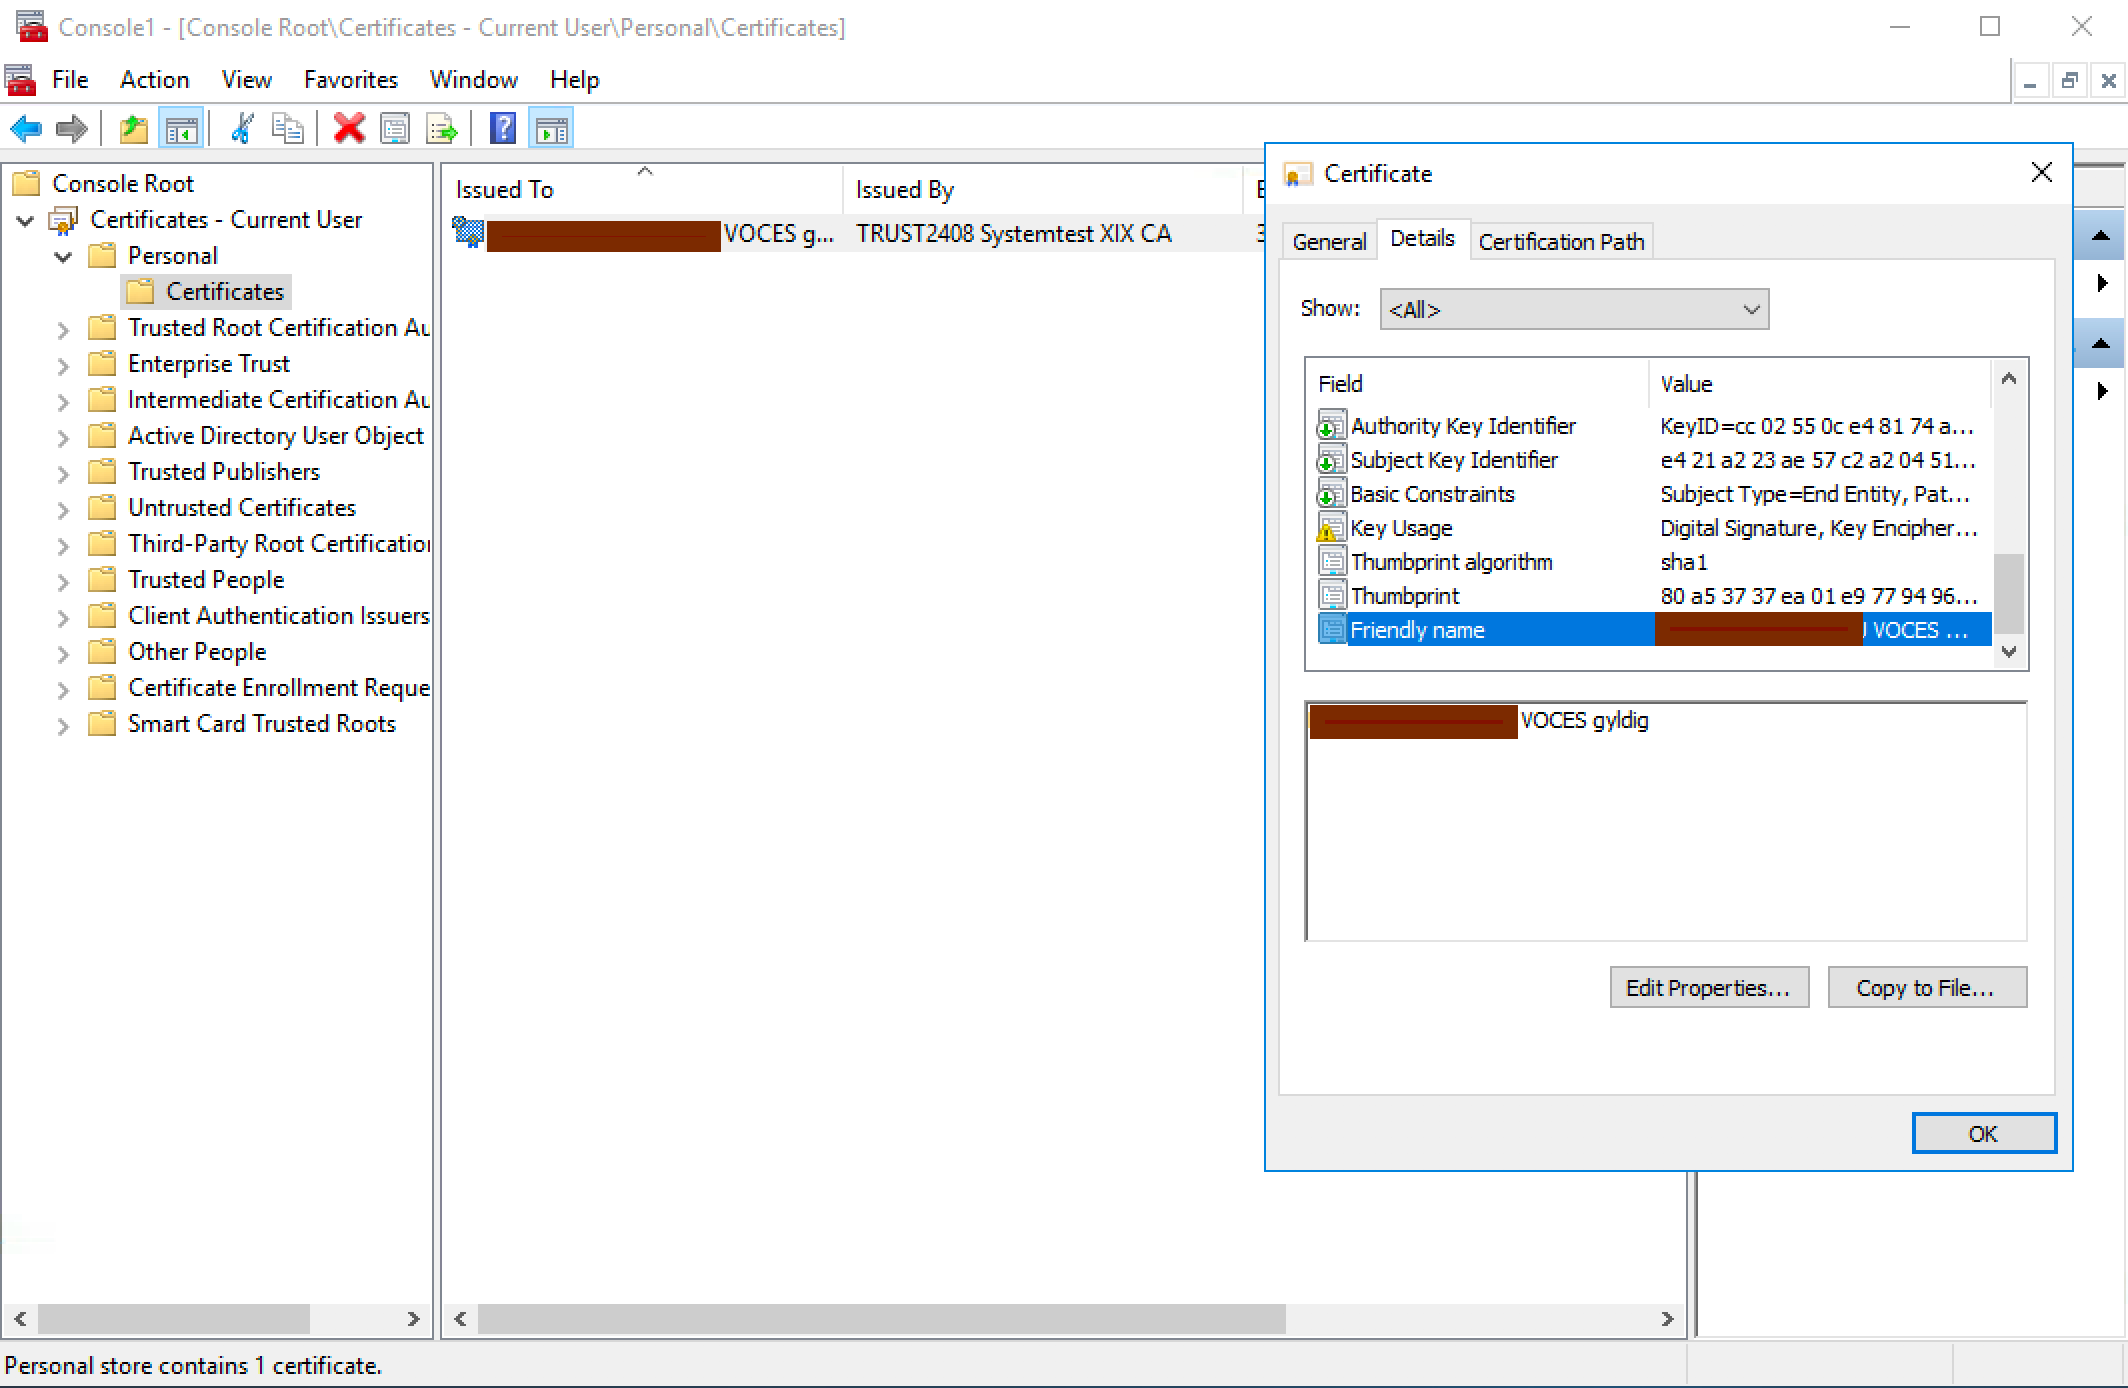
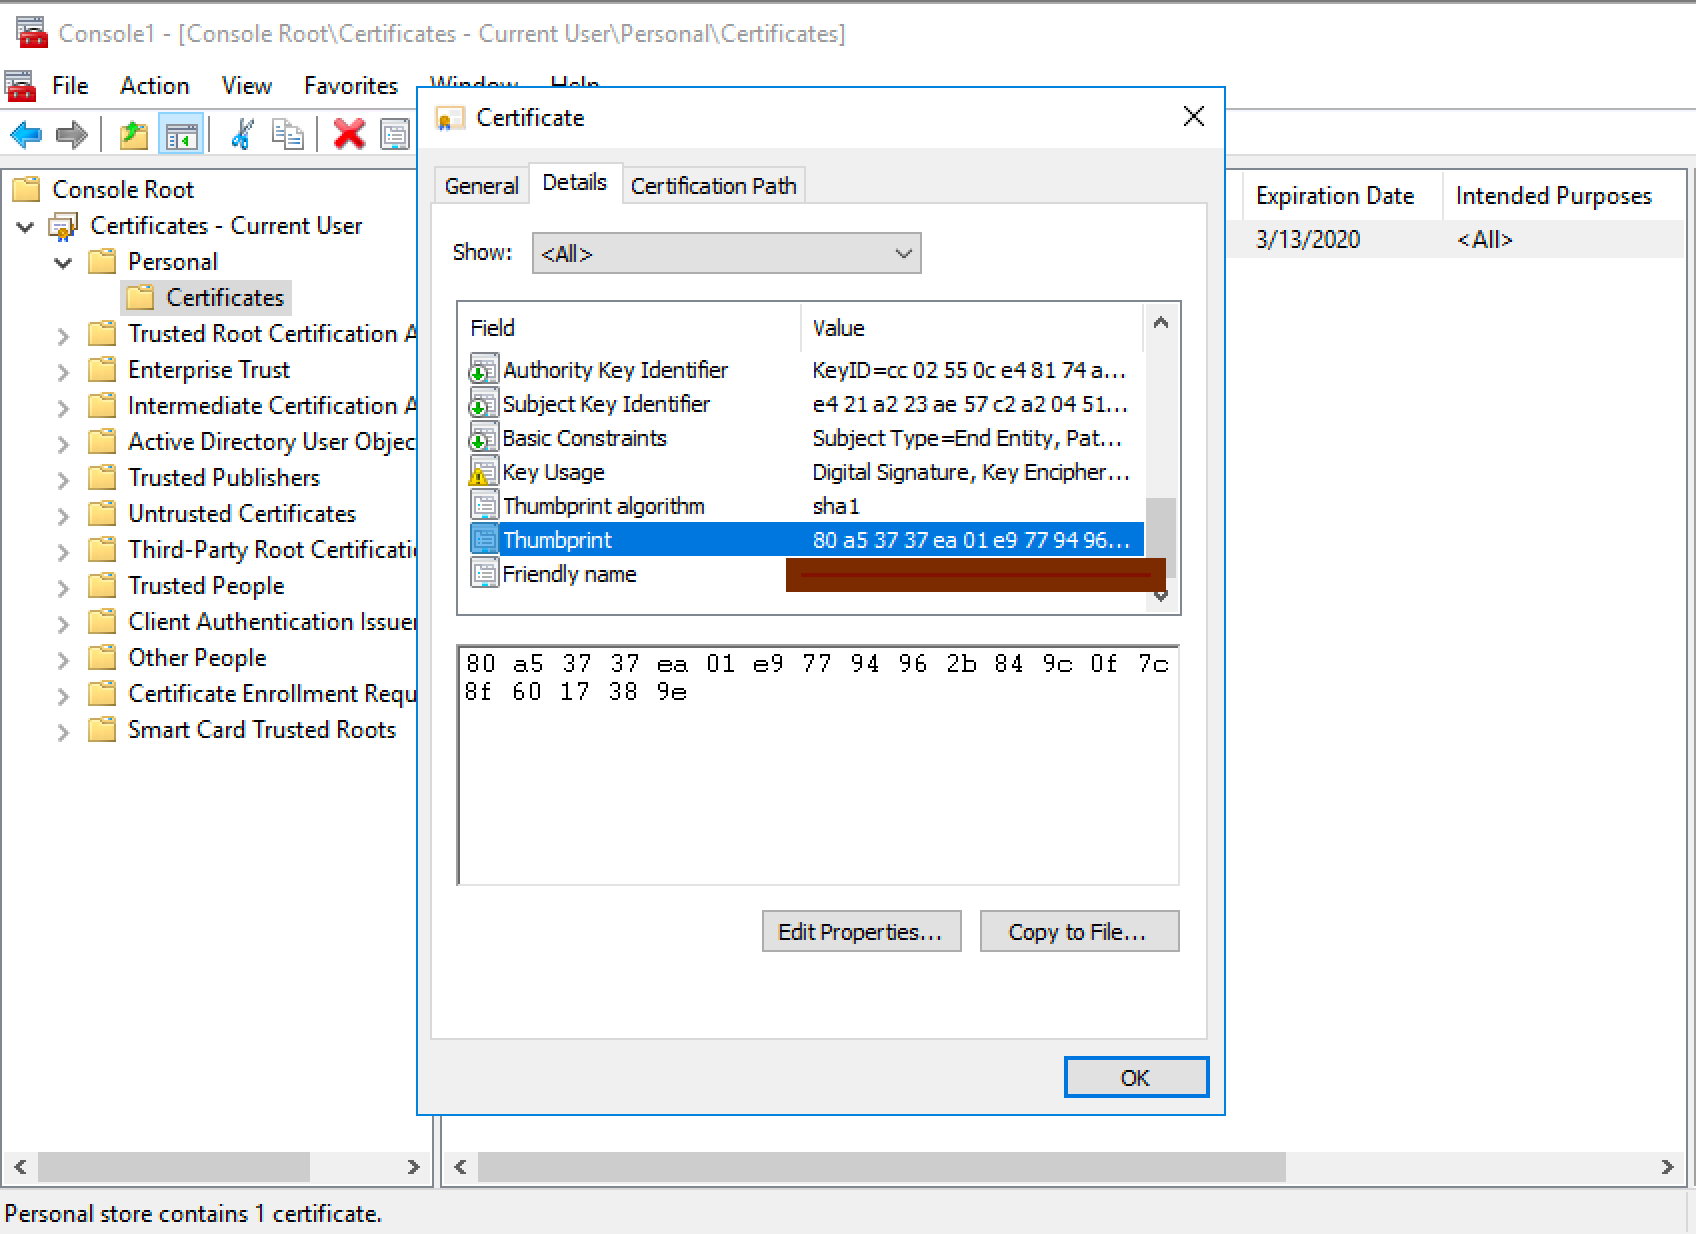
Extended code docs., upd. ie851.xml to v1.92, and extended README.md

Changed region(s): [[0.0, 0.0, 1.0, 0.8314], [0.0, 0.8314, 1.0, 1.0], [0.625, 0.8314, 0.7188, 0.893]]

diff --git a/EMCSSampleConsoleApp/EMCSSampleConsoleApp/Program.cs b/EMCSSampleConsoleApp/EMCSSampleConsoleApp/Program.cs
@@ -11,10 +11,13 @@ namespace EMCSSampleConsoleApp
 {
     class Program
     {
+        /// <summary>
+        /// Run sample
+        /// </summary>
         static void Main(string[] args)
         {
             // Read configuration from App.config
-            // These four settings are used to configure WCF for the custom binding.
+            // These four settings configure the custom binding.
             string identityDns = ConfigurationManager.AppSettings["client.endpoint.identity.dns"];
             string clientEndpointAddress = ConfigurationManager.AppSettings["client.endpoint.address"];
             string clientCertificateFindValue = ConfigurationManager.AppSettings["behaviors.endpointBehaviors.behavior.clientCredentials.clientCertificate.findValue"];
@@ -48,7 +51,8 @@ namespace EMCSSampleConsoleApp
             ho.TransaktionTidSpecified = true;
             request.HovedOplysninger = ho;
             request.VirksomhedIdentifikationStruktur = struktur;
-            request.IE815Struktur = loadElement("C:/IE815.xml"); 
+            // CHANGE LOCATION if the ie815.xml file is in another location!
+            request.IE815Struktur = loadElement("C:/ie815.xml"); 
             Console.WriteLine("**** REQUEST ****");
             Console.WriteLine("** TransaktionIdentifikator = " + ho.TransaktionIdentifikator);
             Console.WriteLine("** TransaktionTid = " + ho.TransaktionTid);
@@ -86,6 +90,9 @@ namespace EMCSSampleConsoleApp
             Console.WriteLine("-Sample client ended");
         }
 
+        /// <summary>
+        /// Build custom binding and compensate for missing "sign Binary Security Token" option in App.config
+        /// </summary>
         private static CustomBinding BuildCustomBinding()
         {
             var customBinding = new CustomBinding();
@@ -108,6 +115,7 @@ namespace EMCSSampleConsoleApp
             asymmetricSecurityBindingElement.MessageProtectionOrder =
               System.ServiceModel.Security.MessageProtectionOrder.SignBeforeEncrypt;
 
+            // Layout header must be LAX!
             asymmetricSecurityBindingElement.SecurityHeaderLayout = SecurityHeaderLayout.Lax;
             asymmetricSecurityBindingElement.EnableUnsecuredResponse = true;
             asymmetricSecurityBindingElement.IncludeTimestamp = true;
@@ -126,7 +134,7 @@ namespace EMCSSampleConsoleApp
                 AddressingVersion.None),
                 WriteEncoding = new System.Text.UTF8Encoding()
             });
-
+            // For mock service running http only, change to HttpTransportBindingElement here:
             HttpsTransportBindingElement httpbinding = new HttpsTransportBindingElement();
             httpbinding.AuthenticationScheme = AuthenticationSchemes.Anonymous;
             customBinding.Elements.Add(httpbinding);
@@ -134,6 +142,9 @@ namespace EMCSSampleConsoleApp
         }
 
 
+        /// <summary>
+        /// Make XML as String into XMLElement
+        /// </summary>
         private static XmlElement getElementFromString(string xml)
         {
             XmlDocument doc = new XmlDocument();
@@ -141,6 +152,9 @@ namespace EMCSSampleConsoleApp
             return doc.DocumentElement;
         }
 
+        /// <summary>
+        /// Make XML as File into XMLElement
+        /// </summary>
         private static XmlElement loadElement(String file)
         {
             // Create an XmlDocument object.

diff --git a/README.md b/README.md
@@ -1,6 +1,6 @@
 # EMCS B2B Sample Web Service Client written in .NET v4.6 using WCF
 
-Sample client for the EMCS B2B Web Service Gateway developed in .NET v4.6 using WCF.
+Sample client for the EMCS B2B Web Service Gateway developed in C# / .NET v4.6 using WCF.
 
 **IMPORTANT NOTICE**: SKAT does not provide any kind of support for the code in this repository.
 This .NET-client is just one example of how a B2B web service can be accessed. The client must not be 
@@ -18,22 +18,20 @@ anvender klienten eller dele af denne i deres egne systemer.
 
 ## Setup Project
 
-The sample client must be configured with **three** parameters that are necessary for the client to run and
+The sample client must be configured with **four** parameters that are necessary for the client to run and
 call the test environment of EMCS B2B Web Service Gateway. The parameters can be obtained by contacting 
 SKAT Help Desk.
 
-Once obtained three **attribute values** in `App.config` must be replaced with the corresponding valued provided by
-SKAT Help Desk as follows:
+Once obtained, four **attribute values** in `App.config` must be replaced with the corresponding value provided by
+SKAT Help Desk:
 
 ```
-...
-<clientCertificate findValue="CHANGE_ME_FRIENDLY_NAME"
-    storeName="My" x509FindType="FindBySubjectName" />
-...
-<defaultCertificate findValue="CHANGE_ME_THUMBPRINT"
-    storeLocation="LocalMachine" storeName="TrustedPeople" x509FindType="FindByThumbprint" />
-...
-<endpoint address="CHANGE_ME_ENDPOINT"
+<appSettings>
+    <add key="client.endpoint.identity.dns" value="CHANGE_ME_CERT_IDENTITY" />
+    <add key="client.endpoint.address" value="CHANGE_ME_ENDPOINT" />
+    <add key="behaviors.endpointBehaviors.behavior.clientCredentials.clientCertificate.findValue" value="CHANGE_ME_THUMBPRINT_CLIENT" />
+    <add key="behaviors.endpointBehaviors.behavior.clientCredentials.serviceCertificate.findValue" value="CHANGE_ME_THUMBPRINT_SERVER" />
+</appSettings>
 ```
 
 ## Setup Client Certificate
@@ -59,13 +57,19 @@ Start the **Microsoft Management Console (MMC)** and add the **Certificates** sn
 **Example:**
 ![mmc_personal_certificates](/assets/mmc_personal_certificates.png)
  
-**Step 2:** Locate friendly name
+**Step 2:** Locate Thumbprint
 
-Click on the imported certificate and go to the **Details** tab to locate the **Friendly name** attribute.
-This name is to used later on.
+Click on the imported certificate and go to the **Details** tab to locate the **Thumbprint** attribute.
 
 **Example:**
 ![mmc_personal_certificates_friendlyname](/assets/mmc_personal_certificates_friendlyname.png)
+
+This value is used in:
+
+```
+<add key="behaviors.endpointBehaviors.behavior.clientCredentials.clientCertificate.findValue" value="..." />
+```
+*IMPORTANT*: Thumbprint must not contain any white spaces.
 
 ## Setup Server Certificate
 
@@ -99,14 +103,66 @@ Then expand **Trusted People > Certificates** and verify that the certificate wa
 **Step 2:** Locate thumbprint
 
 Click on certificate and on the details tab locate the
-**Thumbprint** value. This value is to be used later on.
+**Thumbprint** value. 
 
 **Example:**
 ![mmc_server_certificate_add_snap-in_viewcert_2](/assets/mmc_server_certificate_add_snap-in_viewcert_2.png)
 
+This value is used in:
+
+```
+<add key="behaviors.endpointBehaviors.behavior.clientCredentials.serviceCertificate.findValue" value="..." />
+```
+
+*IMPORTANT*: Thumbprint must not contain any white spaces.
+
 ## Run Project
 
-Once `App.config` and certificates have been installed simply run `Program.cs`.
+Once `App.config` and certificates have been installed then copy `ie815.xml` to `C:/IE815.xml` and set (for testing only):
+
+```
+<ns26:DeferredSubmissionFlag>1</ns26:DeferredSubmissionFlag>
+```
+
+Run `Program.cs` and console should produce this output:
+
+```
++Sample client started
+**** REQUEST ****
+** TransaktionIdentifikator = a3f02d87-190f-439f-8df1-c8264bce94f8
+** TransaktionTid = 1/5/2018 10:00:09 AM
+** VirksomhedIdentifikationStruktur/Indberetter/VirksomhedSENummerIdentifikator = 30808460
+** VirksomhedIdentifikationStruktur/AfgiftOperatoerPunktAfgiftIdentifikator = DK82065873300
+** IE815 = <ie:IE815 xmlns:ie="urn:publicid:-:EC:DGTAXUD:EMCS:PHASE3:IE815:V1.92">
+    <ie:Header xmlns:tms="urn:publicid:-:EC:DGTAXUD:EMCS:PHASE3:TMS:V1.92">
+        <tms:MessageSender>NDEA.DK</tms:MessageSender>
+        <tms:MessageRecipient>NDEA.DK</tms:MessageRecipient>
+        <tms:DateOfPreparation>2011-10-26</tms:DateOfPreparation>
+        <tms:TimeOfPreparation>11:23:00.803</tms:TimeOfPreparation>
+        <tms:MessageIdentifier>9e1e74a5-aaae-41d6-8280-c3892246e613</tms:MessageIdentifier>
+    </ie:Header>
+    <ns26:Body xmlns:ns26="urn:publicid:-:EC:DGTAXUD:EMCS:PHASE3:IE815:V1.92">
+    ...
+    </ns26:Body>
+</ie:IE815>
+**** RESPONSE ****
+** TransaktionIdentifikator = a3f02d87-190f-439f-8df1-c8264bce94f8
+** ServiceIdentifikator = FS2_OIOLedsageDokumentOpret
+** TransaktionTid = 1/5/2018 10:00:09 AM
+** AdvisStruktur..
+**** FejlTekst: Message identifier has been already used
+**** FejlIdentifikator: 494
+Press key to end sample...
+```
+
+## About the code
+
+* The EMCS Service Reference was built from this
+[respository file (wsdl)](https://raw.githubusercontent.com/skat/emcs-b2b-ws/master/wsdl/OIOLedsageDokumentOpret/OIOLedsageDokumentOpret.wsdl). Consequently, updates to this **Connected Service** will require access to the GitHub repository hosted on github.com. This approach is NOT RECOMMENDED
+for real integration projects. Note: The code herein is just sample code!
+* Configuration of WCF Security through `App.config` to comply with the full WS-Security Policy on the EMCS B2B Services Gateway is currently *NOT* possible in WCF. The one configuration missing is signing of the BinarySecurityToken (BST) in the request. This is in this sample solved by moving the custom binding configuration to `Program.cs` (based on the discussion in this 
+[thread](https://stackoverflow.com/questions/13453921/how-to-make-wcf-client-sign-securitytokenreferencereference)). Consequently, the behaviour and endpoint configuration in `App.config` had to be moved as well. However, the configation in `App.config` is still present in the event
+a future version WCF extends `App.config` to enable signing of the BST, but is **NOT** in use by the client. 
 
 ## Debugging
 
@@ -116,7 +172,7 @@ The sample client logs messages and other tracing information to this default pa
 C:\logs\TracingAndLogging-client.svclog
 ```
 
-This log is viewable using **Microsoft Service Trace Viewer** where,  for example, the plain text (xml) and encrypted requests are found.
+This log is viewable using **Microsoft Service Trace Viewer** where, for example, the plain text (xml) and encrypted requests are found.
 
 **Example:**
 ![mstv_capture](/assets/mstv_capture.png)
@@ -136,16 +192,11 @@ In the event that you require to see the actual on-the-wire **outbound** raw xml
 Setup a HTTP service that accepts `POST` operations and logs the full
 request including HTTP headers, but does not have to return a valid response. We just want to see the request. Such a service could be a **SoapUI Mock Service**, a self-built HTTP service, or even a cloud based service.
 
-If your service does not accept HTTPS connections change `httpsTransport` to `httpTransport` for the
-custom binding `emcsCustomBinding` in `App.config`, e.g:
+If your service does not accept HTTPS connections change `HttpsTransportBindingElement` to `HttpTransportBindingElement` 
+in `Program.cs`, e.g:
 
 ```
-<customBinding>
-        <binding name="emcsCustomBinding">
-        ...
-        <httpTransport />
-        </binding>
-</customBinding>
+HttpTransportBindingElement httpbinding = new HttpTransportBindingElement();
 ```
 
 Given such a service exist and the service endpoint is known
@@ -153,14 +204,9 @@ Given such a service exist and the service endpoint is known
 change the client endpoint in `App.config`, e.g.:
 
 ```
-<client>
-    <endpoint address="http://localhost:8080/mymockservice"
-        behaviorConfiguration="ClientAuthenticationBehavior" binding="customBinding"
-        bindingConfiguration="emcsCustomBinding" contract="EMCS.OIOLedsageDokumentOpretServicePortType"
-        name="OIOLedsageDokumentOpretServicePort">
-        ...
-    </endpoint> 
-</client>
+<appSettings>
+    <add key="client.endpoint.address" value="http://localhost:8080/mymockservice" />
+</appSettings>
 ```
 
 **IMPORTANT**: If a cloud based mock service **with public bin** is used for debugging observe that these bins are **public** and viewable for anyone who has the URL of the bin, e.g.:
